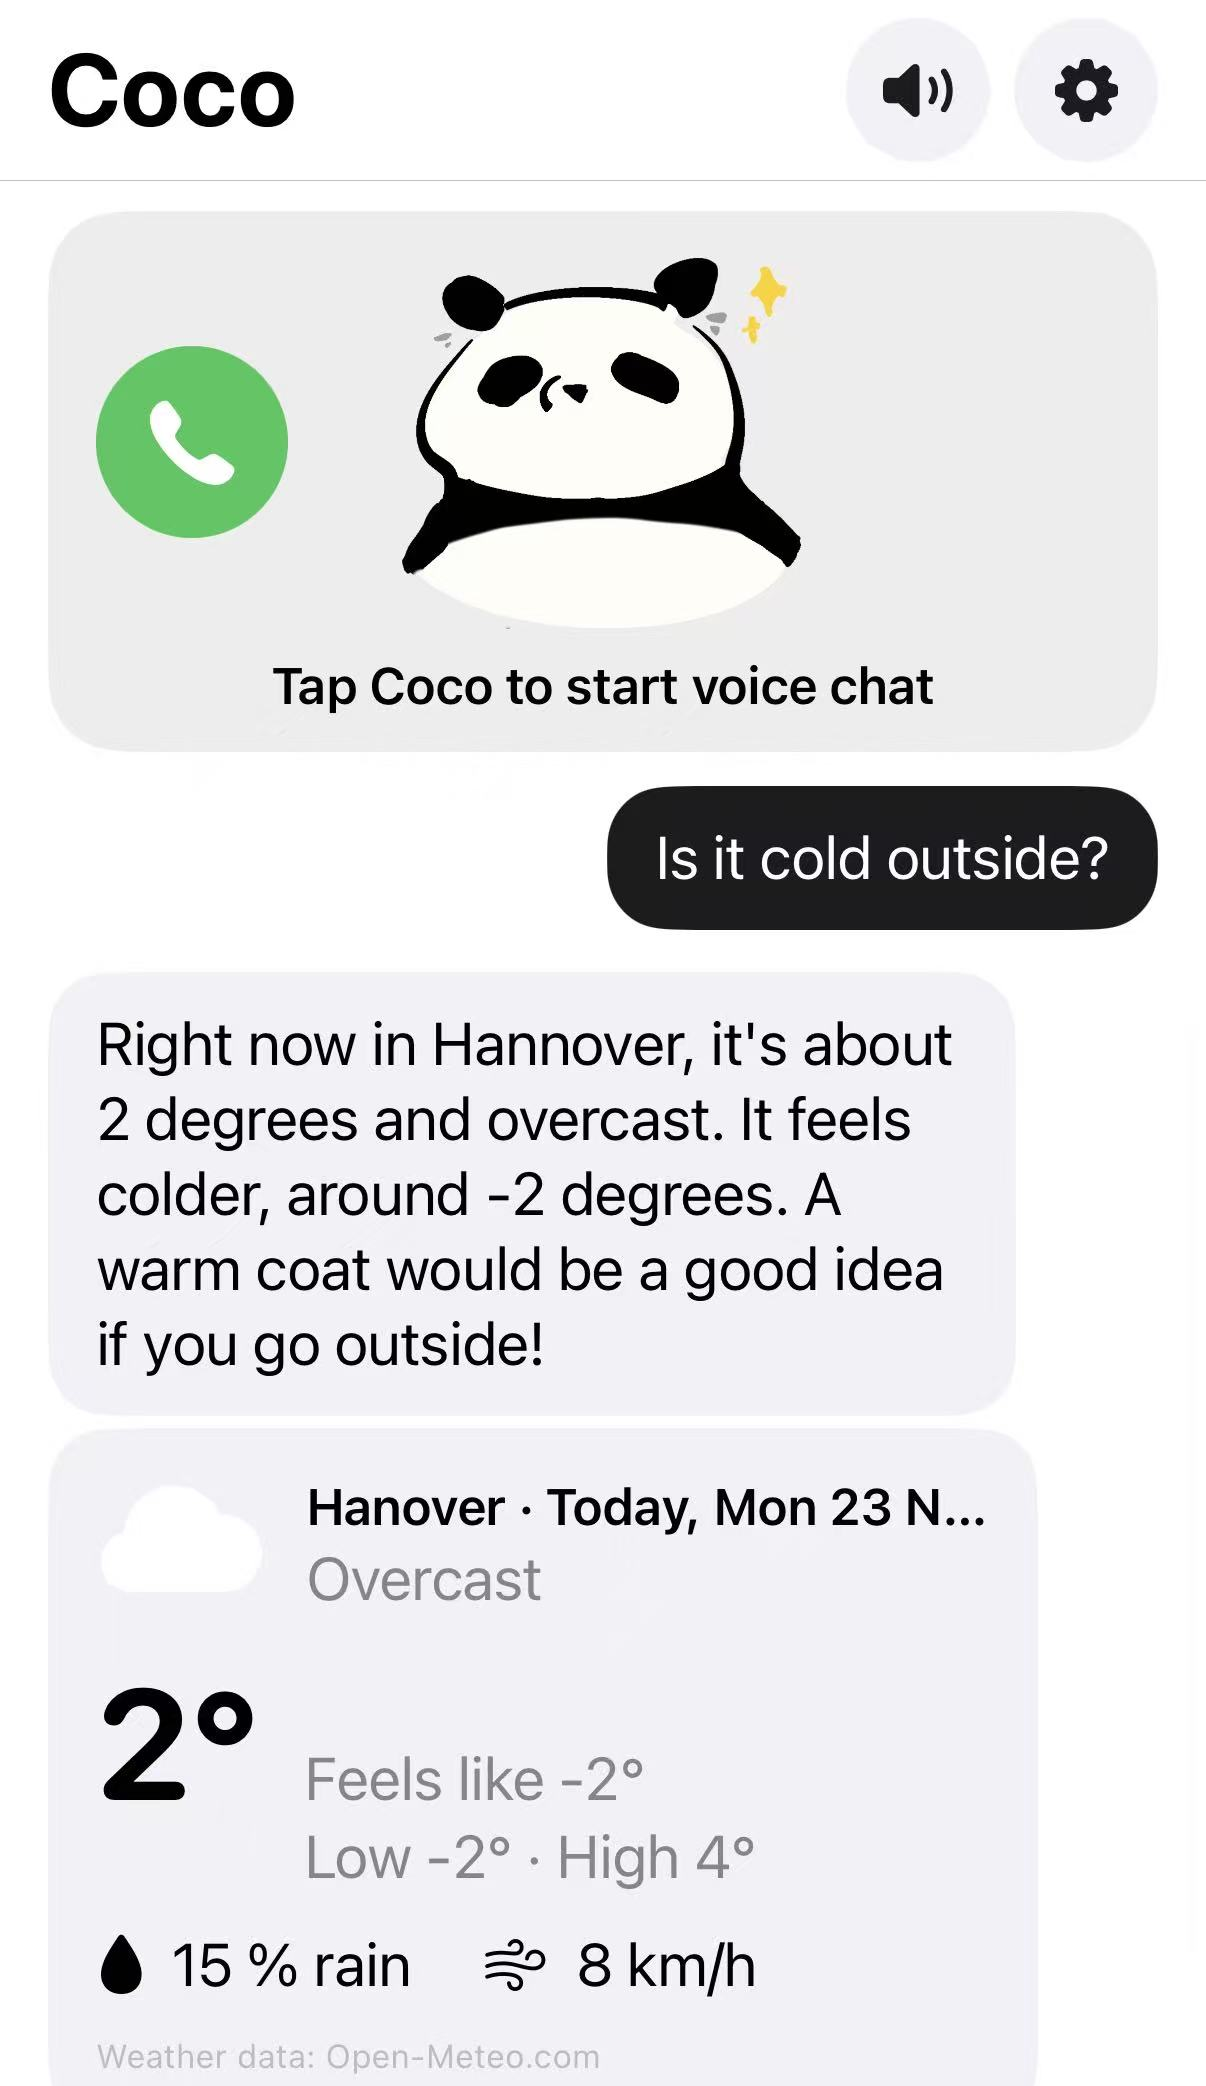
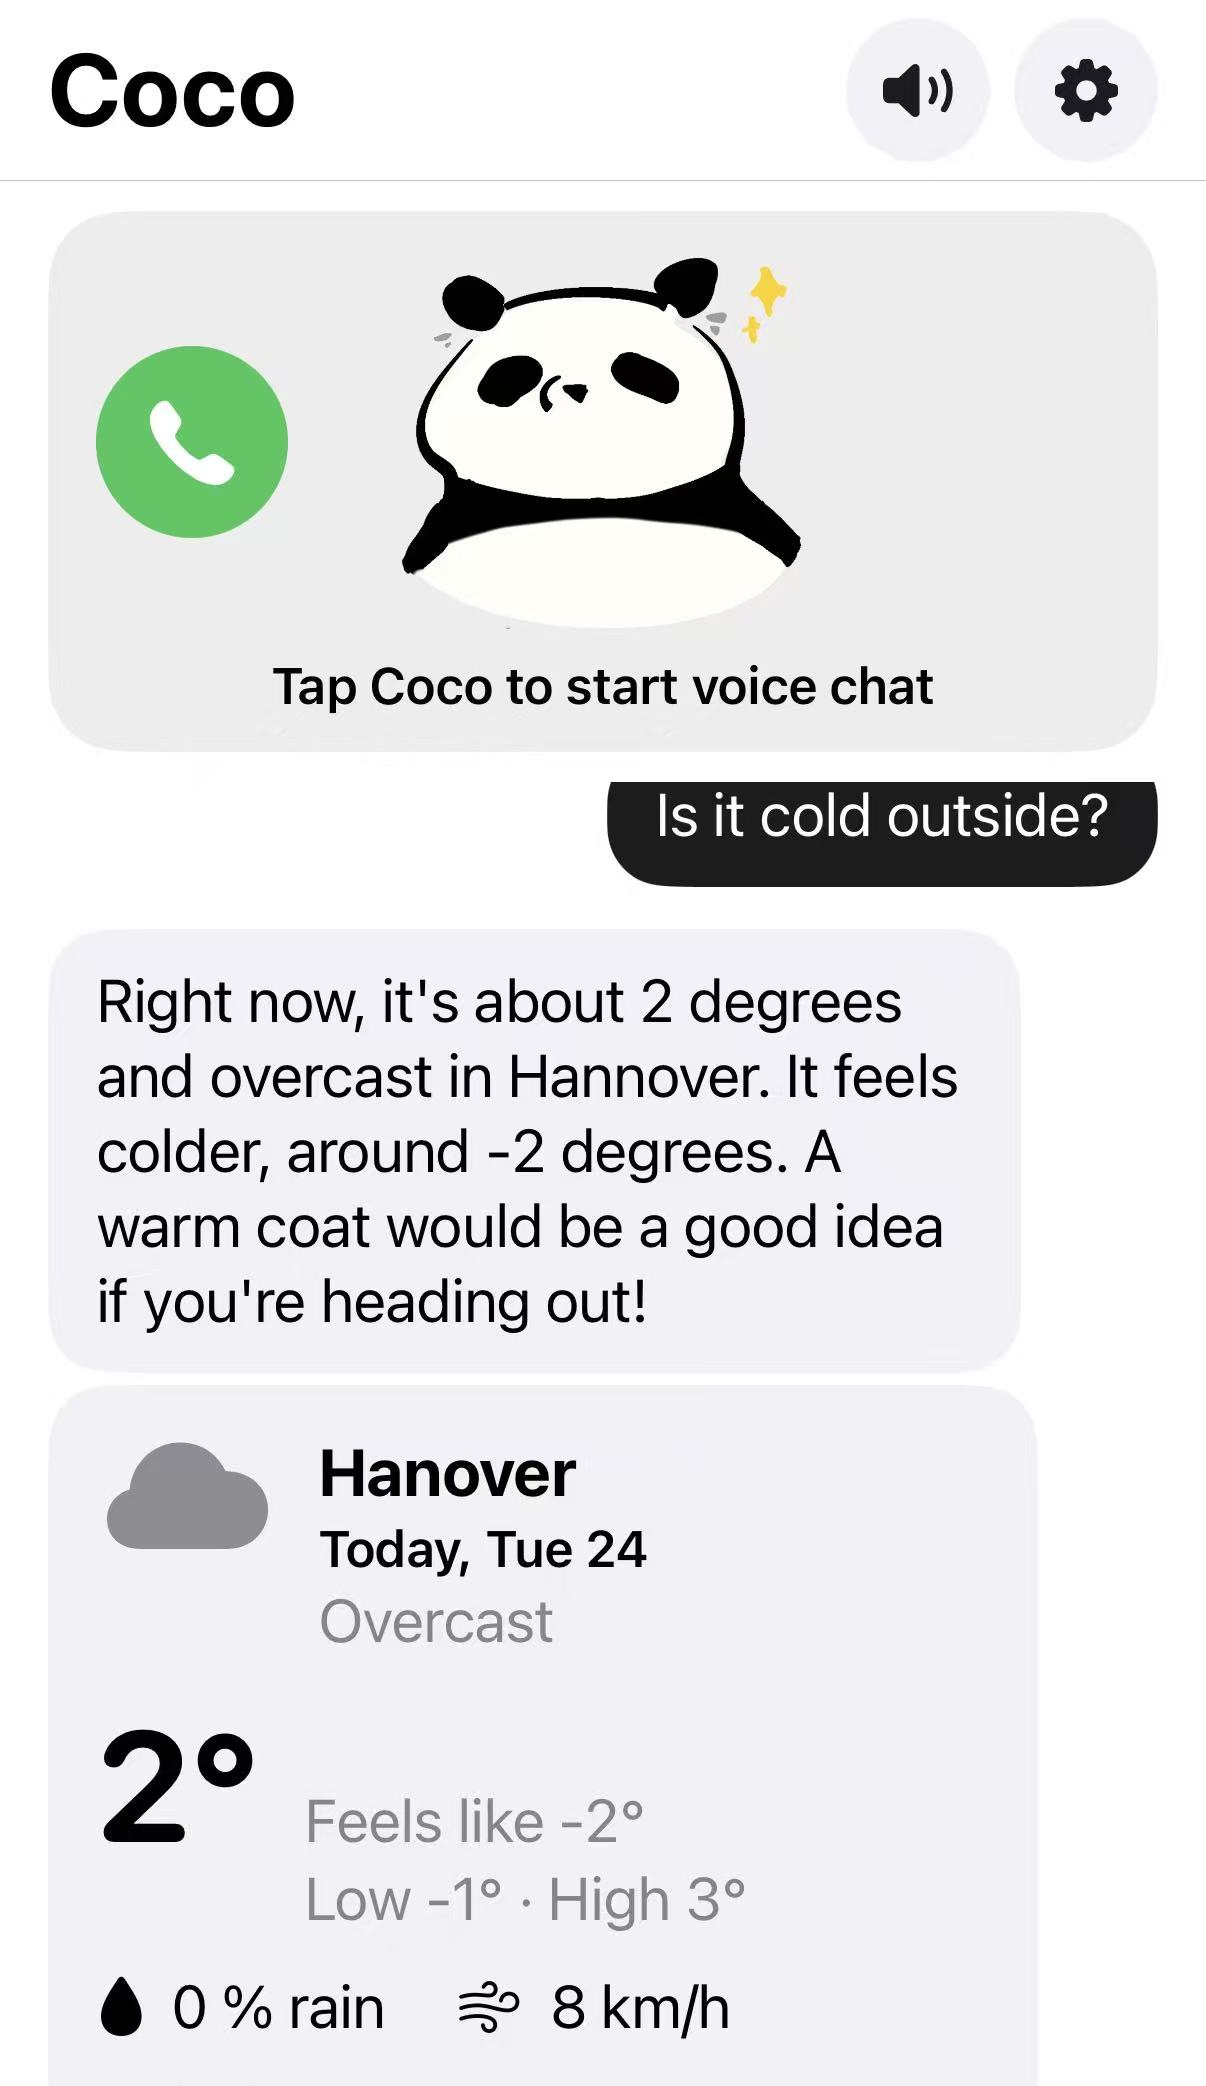
Weather card: visible grey clouds, heading on two lines; new screenshot

diff --git a/ios/Coco/WeatherCard.swift b/ios/Coco/WeatherCard.swift
@@ -5,7 +5,8 @@
 //  The weather as a picture, shown under Coco's answer:
 //
 //  ┌──────────────────────────────────┐
-//  │ ☁  Hanover · Tomorrow, Tue 24 Nov │
+//  │ ☁  Hanover                       │
+//  │     Tomorrow, Tue 24             │
 //  │     Overcast                     │
 //  │  3°        Low -1° · High 3°     │
 //  │  💧 0 % rain    💨 8 km/h         │
@@ -47,13 +48,18 @@ struct WeatherCard: View {
     var body: some View {
         VStack(alignment: .leading, spacing: 12) {
             // picture + where/when + what
+            // (city big, the day below it: on one line it got cut off, "Today, Mon 23 N…")
             HStack(alignment: .top, spacing: 14) {
-                Image(systemName: Self.symbol(code: info.now?.code ?? info.code, isDay: info.now?.is_day ?? true))
-                    .symbolRenderingMode(.multicolor)
+                let icon = Self.icon(code: info.now?.code ?? info.code, isDay: info.now?.is_day ?? true)
+                Image(systemName: icon.name)
+                    .symbolRenderingMode(.palette)          // our own colours (Apple's multicolor = white clouds,
+                    .foregroundStyle(icon.colors[0], icon.colors[1], icon.colors[2])  // invisible on the grey card)
                     .font(.system(size: 46))
-                    .frame(width: 56)
+                    .frame(width: 60)
                 VStack(alignment: .leading, spacing: 2) {
-                    Text("\(info.city) · \(dayLabel)")
+                    Text(info.city)
+                        .font(.title2.bold())
+                    Text(dayLabel)
                         .font(.headline)
                     Text((info.now?.weather ?? info.weather).capitalizedFirst)
                         .font(.title3)
@@ -99,30 +105,33 @@ struct WeatherCard: View {
 
     private func degrees(_ c: Double) -> String { "\(Int(c.rounded()))°" }
 
-    // "tomorrow, Tuesday 24 November" -> "Tomorrow, Tue 24 Nov"; "Friday 27 November" -> "Fri 27 Nov"
+    // "tomorrow, Tuesday 24 November" -> "Tomorrow, Tue 24"; "Friday 27 November" -> "Fri 27" (no month: short)
     private var dayLabel: String {
-        info.day.split(separator: " ").map { word in
-            let w = String(word)
-            let long = ["Monday", "Tuesday", "Wednesday", "Thursday", "Friday", "Saturday", "Sunday",
-                        "January", "February", "March", "April", "June", "July", "August",
-                        "September", "October", "November", "December"]
-            return long.contains(w) ? String(w.prefix(3)) : w
-        }.joined(separator: " ").capitalizedFirst
+        let months = ["January", "February", "March", "April", "May", "June", "July", "August",
+                      "September", "October", "November", "December"]
+        let weekdays = ["Monday", "Tuesday", "Wednesday", "Thursday", "Friday", "Saturday", "Sunday"]
+        return info.day.split(separator: " ").map(String.init)
+            .filter { !months.contains($0) }
+            .map { weekdays.contains($0) ? String($0.prefix(3)) : $0 }
+            .joined(separator: " ").capitalizedFirst
     }
 
-    // weather code (WMO, from Open-Meteo) -> Apple weather symbol
-    static func symbol(code: Int, isDay: Bool) -> String {
+    // weather code (WMO, from Open-Meteo) -> Apple weather symbol + colours for its layers
+    // (1st = main part, usually the cloud; 2nd = sun / rain / snow / stars; 3rd = extra, e.g. the bolt)
+    static func icon(code: Int, isDay: Bool) -> (name: String, colors: [Color]) {
+        let cloud = Color(.systemGray), sun = Color.orange, moon = Color.indigo
+        let rain = Color.blue, snow = Color.cyan
         switch code {
-        case 0, 1:       return isDay ? "sun.max.fill" : "moon.stars.fill"
-        case 2:          return isDay ? "cloud.sun.fill" : "cloud.moon.fill"
-        case 3:          return "cloud.fill"
-        case 45, 48:     return "cloud.fog.fill"
-        case 51...57:    return "cloud.drizzle.fill"
-        case 65, 82:     return "cloud.heavyrain.fill"
-        case 61...67, 80...82: return "cloud.rain.fill"
-        case 71...77, 85, 86:  return "cloud.snow.fill"
-        case 95...99:    return "cloud.bolt.rain.fill"
-        default:         return "cloud.fill"
+        case 0, 1:       return isDay ? ("sun.max.fill", [sun, sun, sun]) : ("moon.stars.fill", [moon, .yellow, .yellow])
+        case 2:          return isDay ? ("cloud.sun.fill", [cloud, sun, sun]) : ("cloud.moon.fill", [cloud, moon, moon])
+        case 3:          return ("cloud.fill", [cloud, cloud, cloud])
+        case 45, 48:     return ("cloud.fog.fill", [cloud, Color(.systemGray2), cloud])
+        case 51...57:    return ("cloud.drizzle.fill", [cloud, rain, rain])
+        case 65, 82:     return ("cloud.heavyrain.fill", [cloud, rain, rain])
+        case 61...67, 80...82: return ("cloud.rain.fill", [cloud, rain, rain])
+        case 71...77, 85, 86:  return ("cloud.snow.fill", [cloud, snow, snow])
+        case 95...99:    return ("cloud.bolt.rain.fill", [cloud, .yellow, rain])
+        default:         return ("cloud.fill", [cloud, cloud, cloud])
         }
     }
 }

diff --git a/DIARY.md b/DIARY.md
@@ -16,6 +16,16 @@ Marketing/business plan (first market, interviews, trust model): separate, not p
 
 ---
 
+## 2026-11-24 (weather card fixes)
+**Did:**
+- Weather card: clouds were white on the light grey card (Apple's multicolor style) → almost invisible.
+  Now our own colours per symbol layer (`.palette`): clouds grey, sun orange, rain blue, snow cyan, moon indigo,
+  stars/bolt yellow. Heading was cut off ("Today, Mon 23 N…") → city on its own line (big), day below without
+  the month ("Today, Tue 24"). App-only change, works with both servers. Tested on the iPhone.
+- `docs/app-pictures/weather-card.jpg` replaced with the fixed card (README).
+
+---
+
 ## 2026-11-23 — where we stand (end of session 16–23 Nov)
 **Working now (Mac + online server, tested on the iPhone):**
 - Text + hands-free voice chat; ⚙ Settings: About you (name, she/he/they, town), server switch Online / My Mac.
